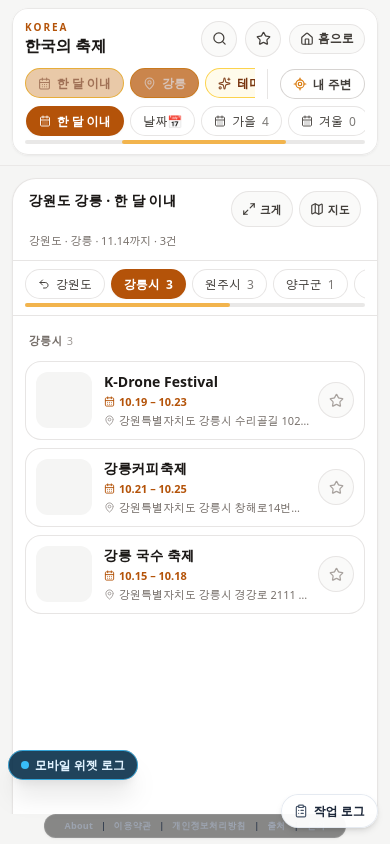
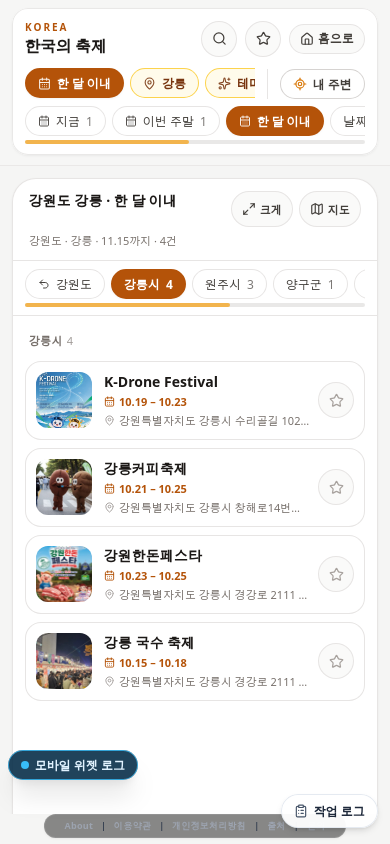
docs(korea): refresh month-chip meta screenshots after #488
Capture nationwide, Seoul, Gangneung, and Jeju on WebKit 390 after hub to region, once list images and the meta line have settled. The until-date stays after the place name.

diff --git a/docs/qa/date-chip-meta-order/NOTES.md b/docs/qa/date-chip-meta-order/NOTES.md
@@ -1,6 +1,7 @@
 # date-chip-meta-order
 
-- Capture base: https://127.0.0.1:5194
-- seoul meta: 서울특별시 ·11.14까지 ·43건 ·구별
-- gangneung meta: 강원도 ·강릉 ·11.14까지 ·3건
-- jeju meta: 제주도 ·11.14까지 ·11건 ·시·군별
+- Capture base: http://127.0.0.1:5194
+- nationwide meta: 전국 ·11.15까지 ·221건 ·시·도별
+- seoul meta: 서울특별시 ·11.15까지 ·47건 ·구별
+- gangneung meta: 강원도 ·강릉 ·11.15까지 ·4건
+- jeju meta: 제주도 ·11.15까지 ·11건 ·시·군별
